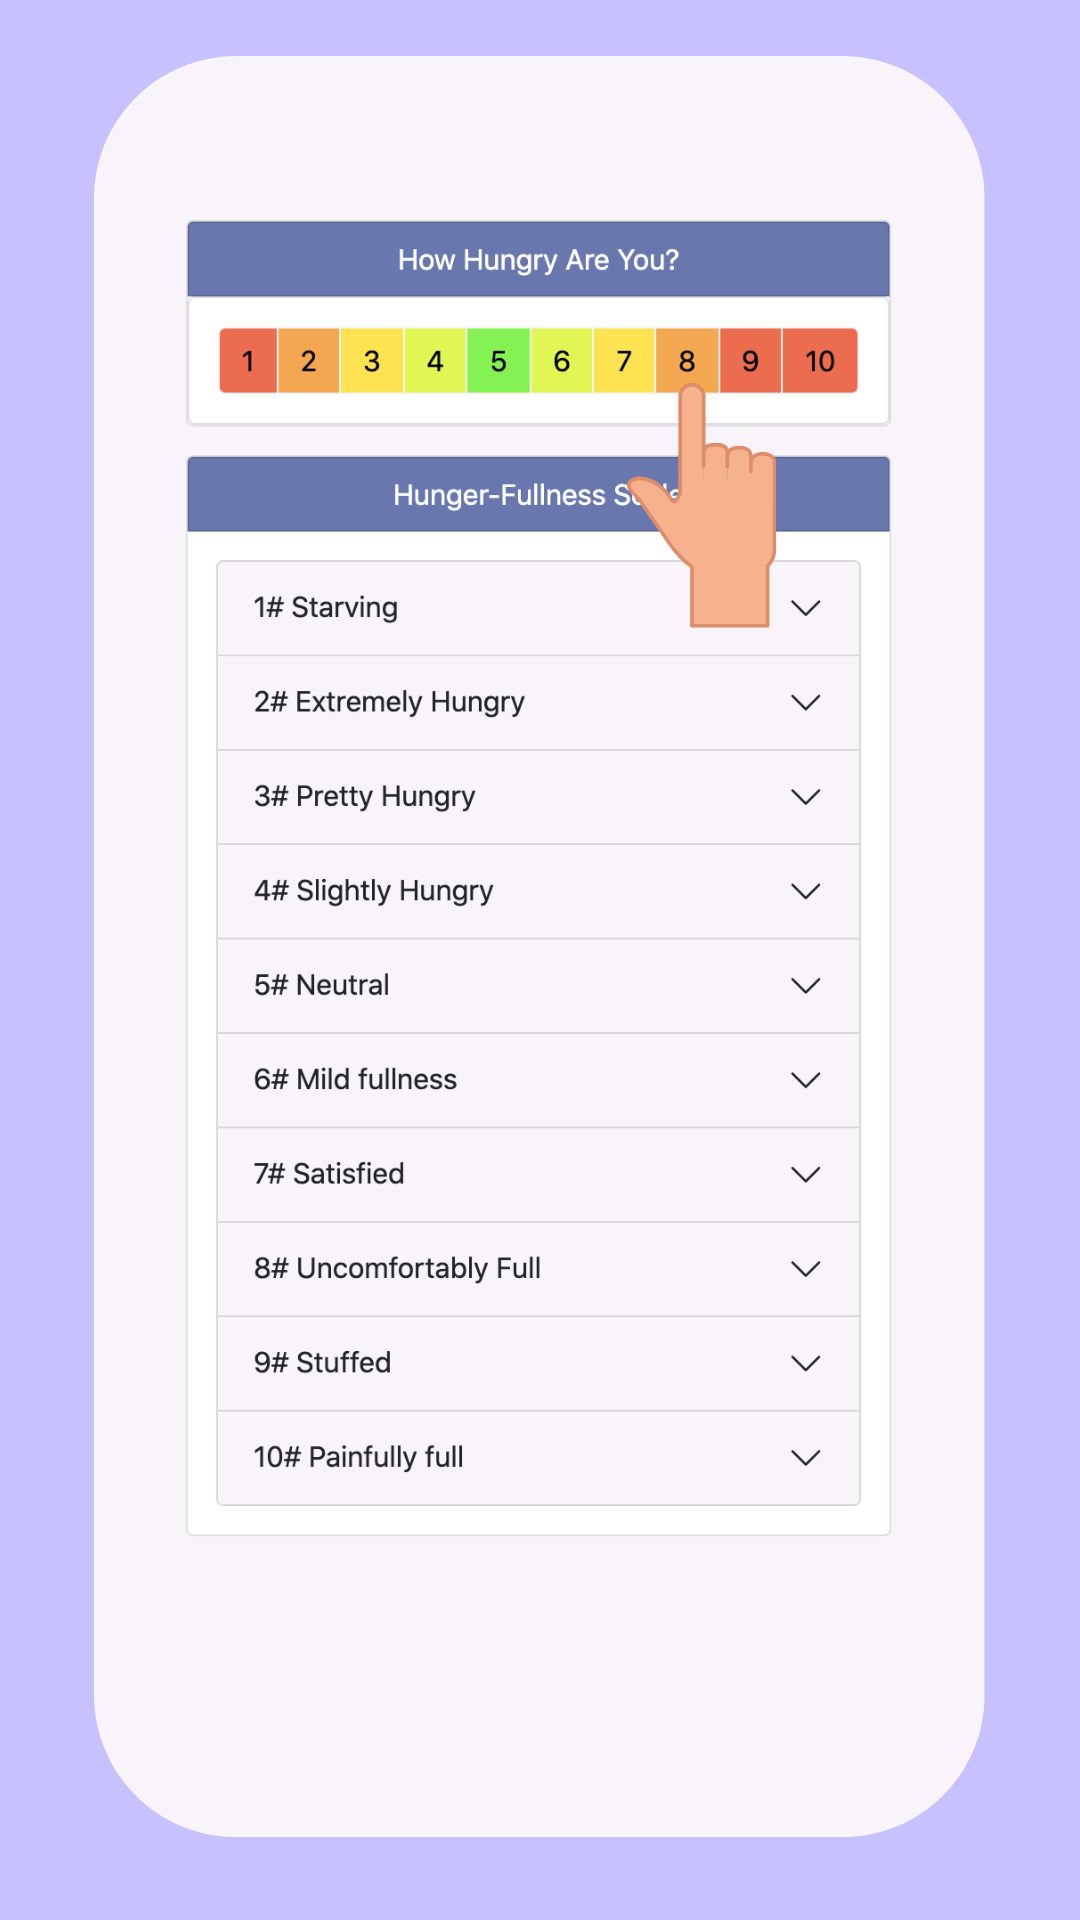
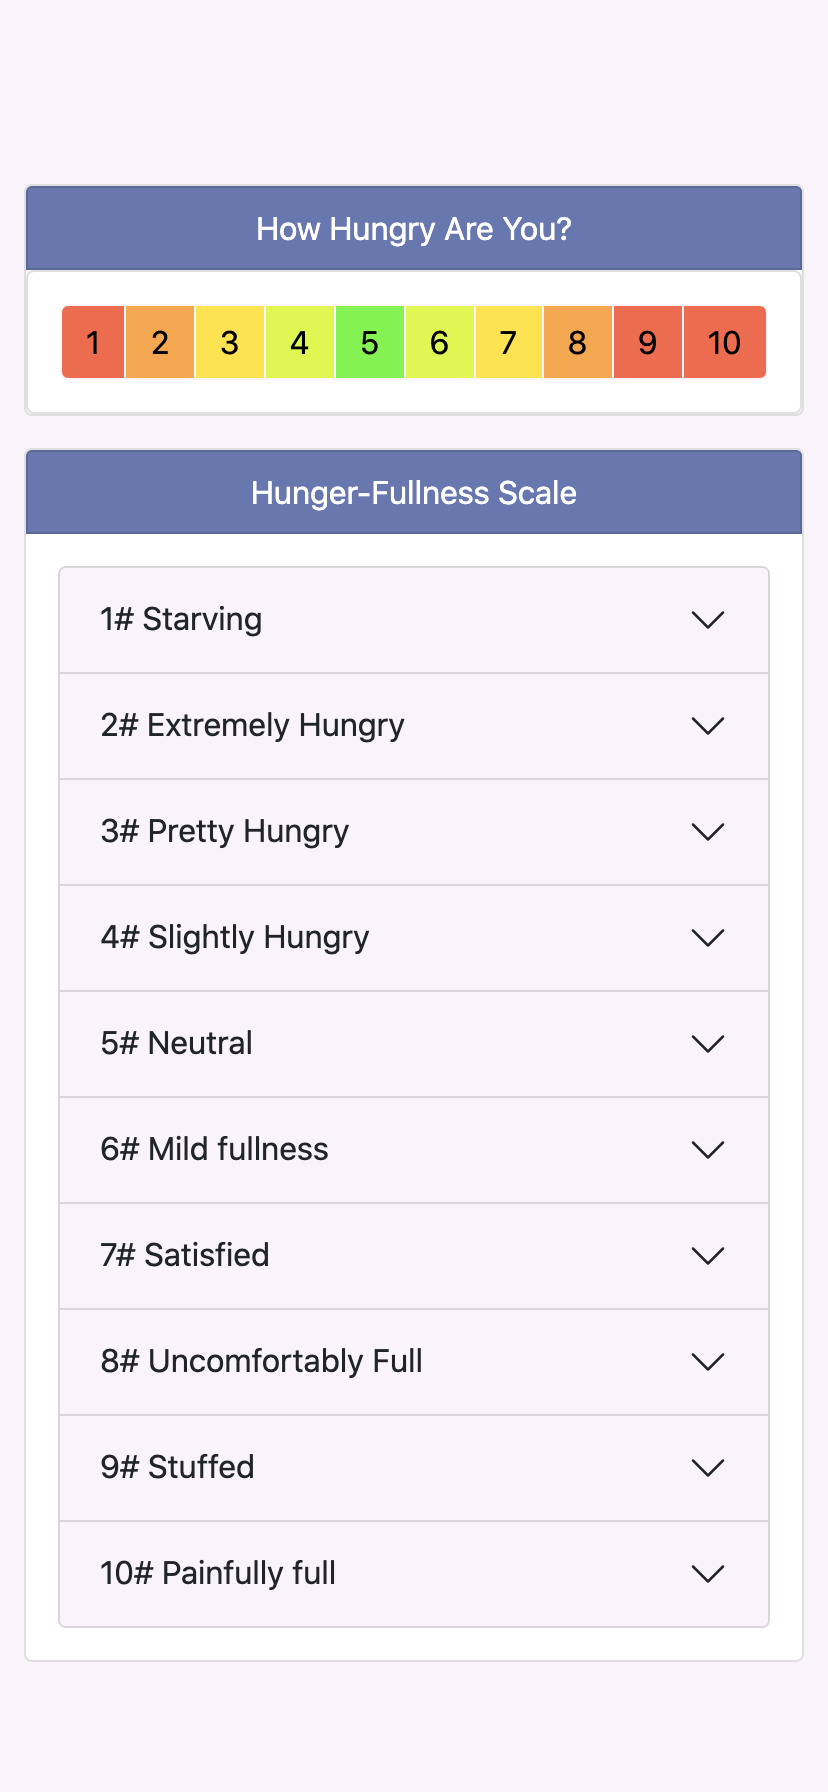
responsive + instructions

diff --git a/src/components/Instructions.tsx b/src/components/Instructions.tsx
@@ -1,70 +1,86 @@
-import React, { useState } from "react"
+import React from "react"
 import { Carousel } from "react-bootstrap"
-import back1 from '../background-lila.png'
+import './Instructions.scss'
 import slide1 from '../1.png'
 import slide2 from '../2.png'
 import slide3 from '../3.png'
 import slide4 from '../4.png'
+import slide41 from '../4_1.png'
 import slide5 from '../5.png'
-
-
 
 export const Instructions = () => {
 
-
   return (
     <>
-      <Carousel variant="dark">
-        <Carousel.Item>
-          <img
-            className="d-block w-100"
-            src={slide1}
-            alt="First slide"
-          />
+      <Carousel variant="dark" className="h-100" interval={null} wrap={false} >
+        <Carousel.Item >
+          <div className="carousel-img">
+            <img
+              src={slide1}
+              alt="First slide"
+            />
+          </div>
+
           <Carousel.Caption>
             <h3>Connect</h3>
             <p> Assess your hunger along the day</p>
           </Carousel.Caption>
         </Carousel.Item>
         <Carousel.Item>
-          <img
-            className="d-block w-100"
-            src={slide3}
-            alt="Second slide"
-          />
+          <div className="carousel-img">
+            <img
+              src={slide2}
+              alt="Second slide"
+            />
+          </div>
           <Carousel.Caption>
             <h3>Set Reminders</h3>
             <p>Keep track of your daily logs </p>
           </Carousel.Caption>
         </Carousel.Item>
         <Carousel.Item>
-          <img
-            className="d-block w-100"
-            src={slide3}
-            alt="Second slide"
-          />
+          <div className="carousel-img">
+            <img
+              src={slide3}
+              alt="third slide"
+            />
+          </div>
           <Carousel.Caption>
             <h3>Keep Track</h3>
             <p>Keep track of your daily logs </p>
           </Carousel.Caption>
         </Carousel.Item>
         <Carousel.Item>
-          <img
-            className="d-block w-100"
-            src={slide4}
-            alt="Third slide"
-          />
+          <div className="carousel-img">
+            <img
+              src={slide4}
+              alt="fourth slide"
+            />
+          </div>
+          <Carousel.Caption>
+            <h3>Keep Track</h3>
+            <p>Keep track of your daily logs </p>
+          </Carousel.Caption>
+        </Carousel.Item>
+        <Carousel.Item>
+          <div className="carousel-img">
+            <img
+              src={slide41}
+              alt="4.1 slide"
+            />
+          </div>
           <Carousel.Caption>
             <h3> Be Conciouss</h3>
             <p> Identify your patterns and evolution</p>
           </Carousel.Caption>
         </Carousel.Item>
         <Carousel.Item>
-          <img
-            className="d-block w-100"
-            src={slide5}
-            alt="Third slide"
-          />
+          <div className="carousel-img">
+            <img
+              src={slide5}
+              alt="fifth slide"
+            />
+          </div>
           <Carousel.Caption>
             <h3> Develop Intueation</h3>
             <p>  Develop a sense when to eat and when to stop </p>

diff --git a/src/components/Scale.tsx b/src/components/Scale.tsx
@@ -1,5 +1,5 @@
 import React, { useState } from "react"
-import { Button, ButtonGroup, Card, Accordion, Container } from "react-bootstrap"
+import { Button, ButtonGroup, Card, Accordion } from "react-bootstrap"
 import { ChoiceInfo } from "./ChoiceInfo"
 import { HungerInput } from "../App"
 
@@ -100,7 +100,7 @@ export function Scale(p: {
           <Card className="my-3" >
             <Card.Header className="card text-center bg-primary text-white" >How Hungry Are You?</Card.Header>
             <Card.Body className="card text-center ">
-              <ButtonGroup aria-label="First group" style={{ overflowY: "scroll" }}>
+              <ButtonGroup aria-label="First group" style={{ overflowX: "auto" }}>
                 {hungerLevels.map(
                   (l, index) => (<Button style={{ backgroundColor: l.background }} className="text-black border border-light" key={index + 1} onClick={() => {
                     saveHungerInput(index + 1)

diff --git a/src/Reminder.tsx b/src/Reminder.tsx
@@ -10,7 +10,7 @@ export function Reminder(p: {
 }) {
 
 
-  const [value, setValue] = useState(30)
+  const [value, setValue] = useState(15)
 
 
 
@@ -18,24 +18,23 @@ export function Reminder(p: {
   const setTimer = (v: number) => {
     setTimeout(() => {
       p.setShow(true)
-    }, v * 60 * 1000)
+    }, v * 100)
 
   }
 
 
   return (
     <>
-      <Form>
+      <Form className="d-flex flex-column justify-content-center">
         <Form.Label>Check again with my hunger in...</Form.Label>
         <Form.Select value={value} onChange={e => setValue(parseInt(e.target.value))}>
+          <option value={15}>15 min</option>
           <option value={30}>30 min</option>
           <option value={60}>1 h</option>
           <option value={120}>2 h</option>
         </Form.Select>
         <Button className="text-white mt-4" onClick={() => { setTimer(value); console.log("value", value) }}>Remind me</Button>
       </Form>
-
-
     </>
 
   )

diff --git a/src/components/NavBar.tsx b/src/components/NavBar.tsx
@@ -7,9 +7,9 @@ import intueative from '../intueative.svg'
 export function NavBar() {
   return (
 
-    <Navbar bg="light" variant="light">
+    <Navbar bg="light" variant="light" className="flex-grow-0">
       <Container>
-        <Navbar.Brand to="/" as={Link}><img src={intueative} width="50"></img></Navbar.Brand>
+        <Navbar.Brand to="/" as={Link}><img src={intueative} width="50" alt="logo"></img></Navbar.Brand>
         <Nav >
           <Nav.Item>
             <Nav.Link className="text-primary" as={Link} to="/instructions"><QuestionCircleFill /></Nav.Link>

diff --git a/src/App.tsx b/src/App.tsx
@@ -43,13 +43,13 @@ function App() {
 
   return (
     <>
-      <header>
-        <NavBar />
-      </header>
-      <Container>
-        <Row>
-          <Col md={{ span: 7, offset: 2 }}
+      <NavBar />
+      <Container className="overflow-auto">
+        <Row className="h-100">
+          <Col
+            md={{ span: 7, offset: 2 }}
             lg={{ span: 4, offset: 4 }}
+            className="h-100"
           >
             <AlertHunger show={show} toggleShow={toggleShow} />
             <Routes>

diff --git a/src/components/AlertHunger.tsx b/src/components/AlertHunger.tsx
@@ -10,7 +10,7 @@ export const AlertHunger = (p: {
 
   return (
     <>
-      <Toast show={p.show} onClose={p.toggleShow}>
+      <Toast show={p.show} onClose={p.toggleShow} className="mb-4">
         <Toast.Header>
           <img src={icon} style={{ width: 30, height: 30 }} className="rounded me-2" alt="" />
           <strong className="me-auto">IntUeative</strong>

diff --git a/src/components/Home.tsx b/src/components/Home.tsx
@@ -1,7 +1,7 @@
 import React from "react";
 import { Container, Button } from "react-bootstrap";
 import intueative from '../intueative_lon.png';
-import subtitle from '../subtitle.png'
+import subtitle from '../untertitel.svg'
 import { useNavigate } from "react-router-dom";
 import { useState } from "react"
 import 'animate.css'

diff --git a/src/components/Instructions.scss b/src/components/Instructions.scss
@@ -1,0 +1,20 @@
+.carousel-inner{
+  height:100%;
+}
+
+.carousel-item{
+  height:100%;
+
+}
+
+.carousel-img{
+  display:flex;
+  justify-content: center;
+  height:100%;
+
+}
+.carousel-caption{
+background-color:  #f8f4f9;
+border-radius: 5px;
+
+}

diff --git a/src/index.tsx b/src/index.tsx
@@ -4,7 +4,7 @@ import App from './App';
 import reportWebVitals from './reportWebVitals';
 import './scss/custom.scss'
 import { BrowserRouter, Route, Routes } from "react-router-dom";
-import { Reminder } from './Reminder';
+
 
 
 

diff --git a/public/index.html b/public/index.html
@@ -19,7 +19,7 @@
 
 <body>
   <noscript>You need to enable JavaScript to run this app.</noscript>
-  <div id="root"></div>
+  <div id="root" class=" d-flex flex-column vh-100"></div>
 
 </body>
 
